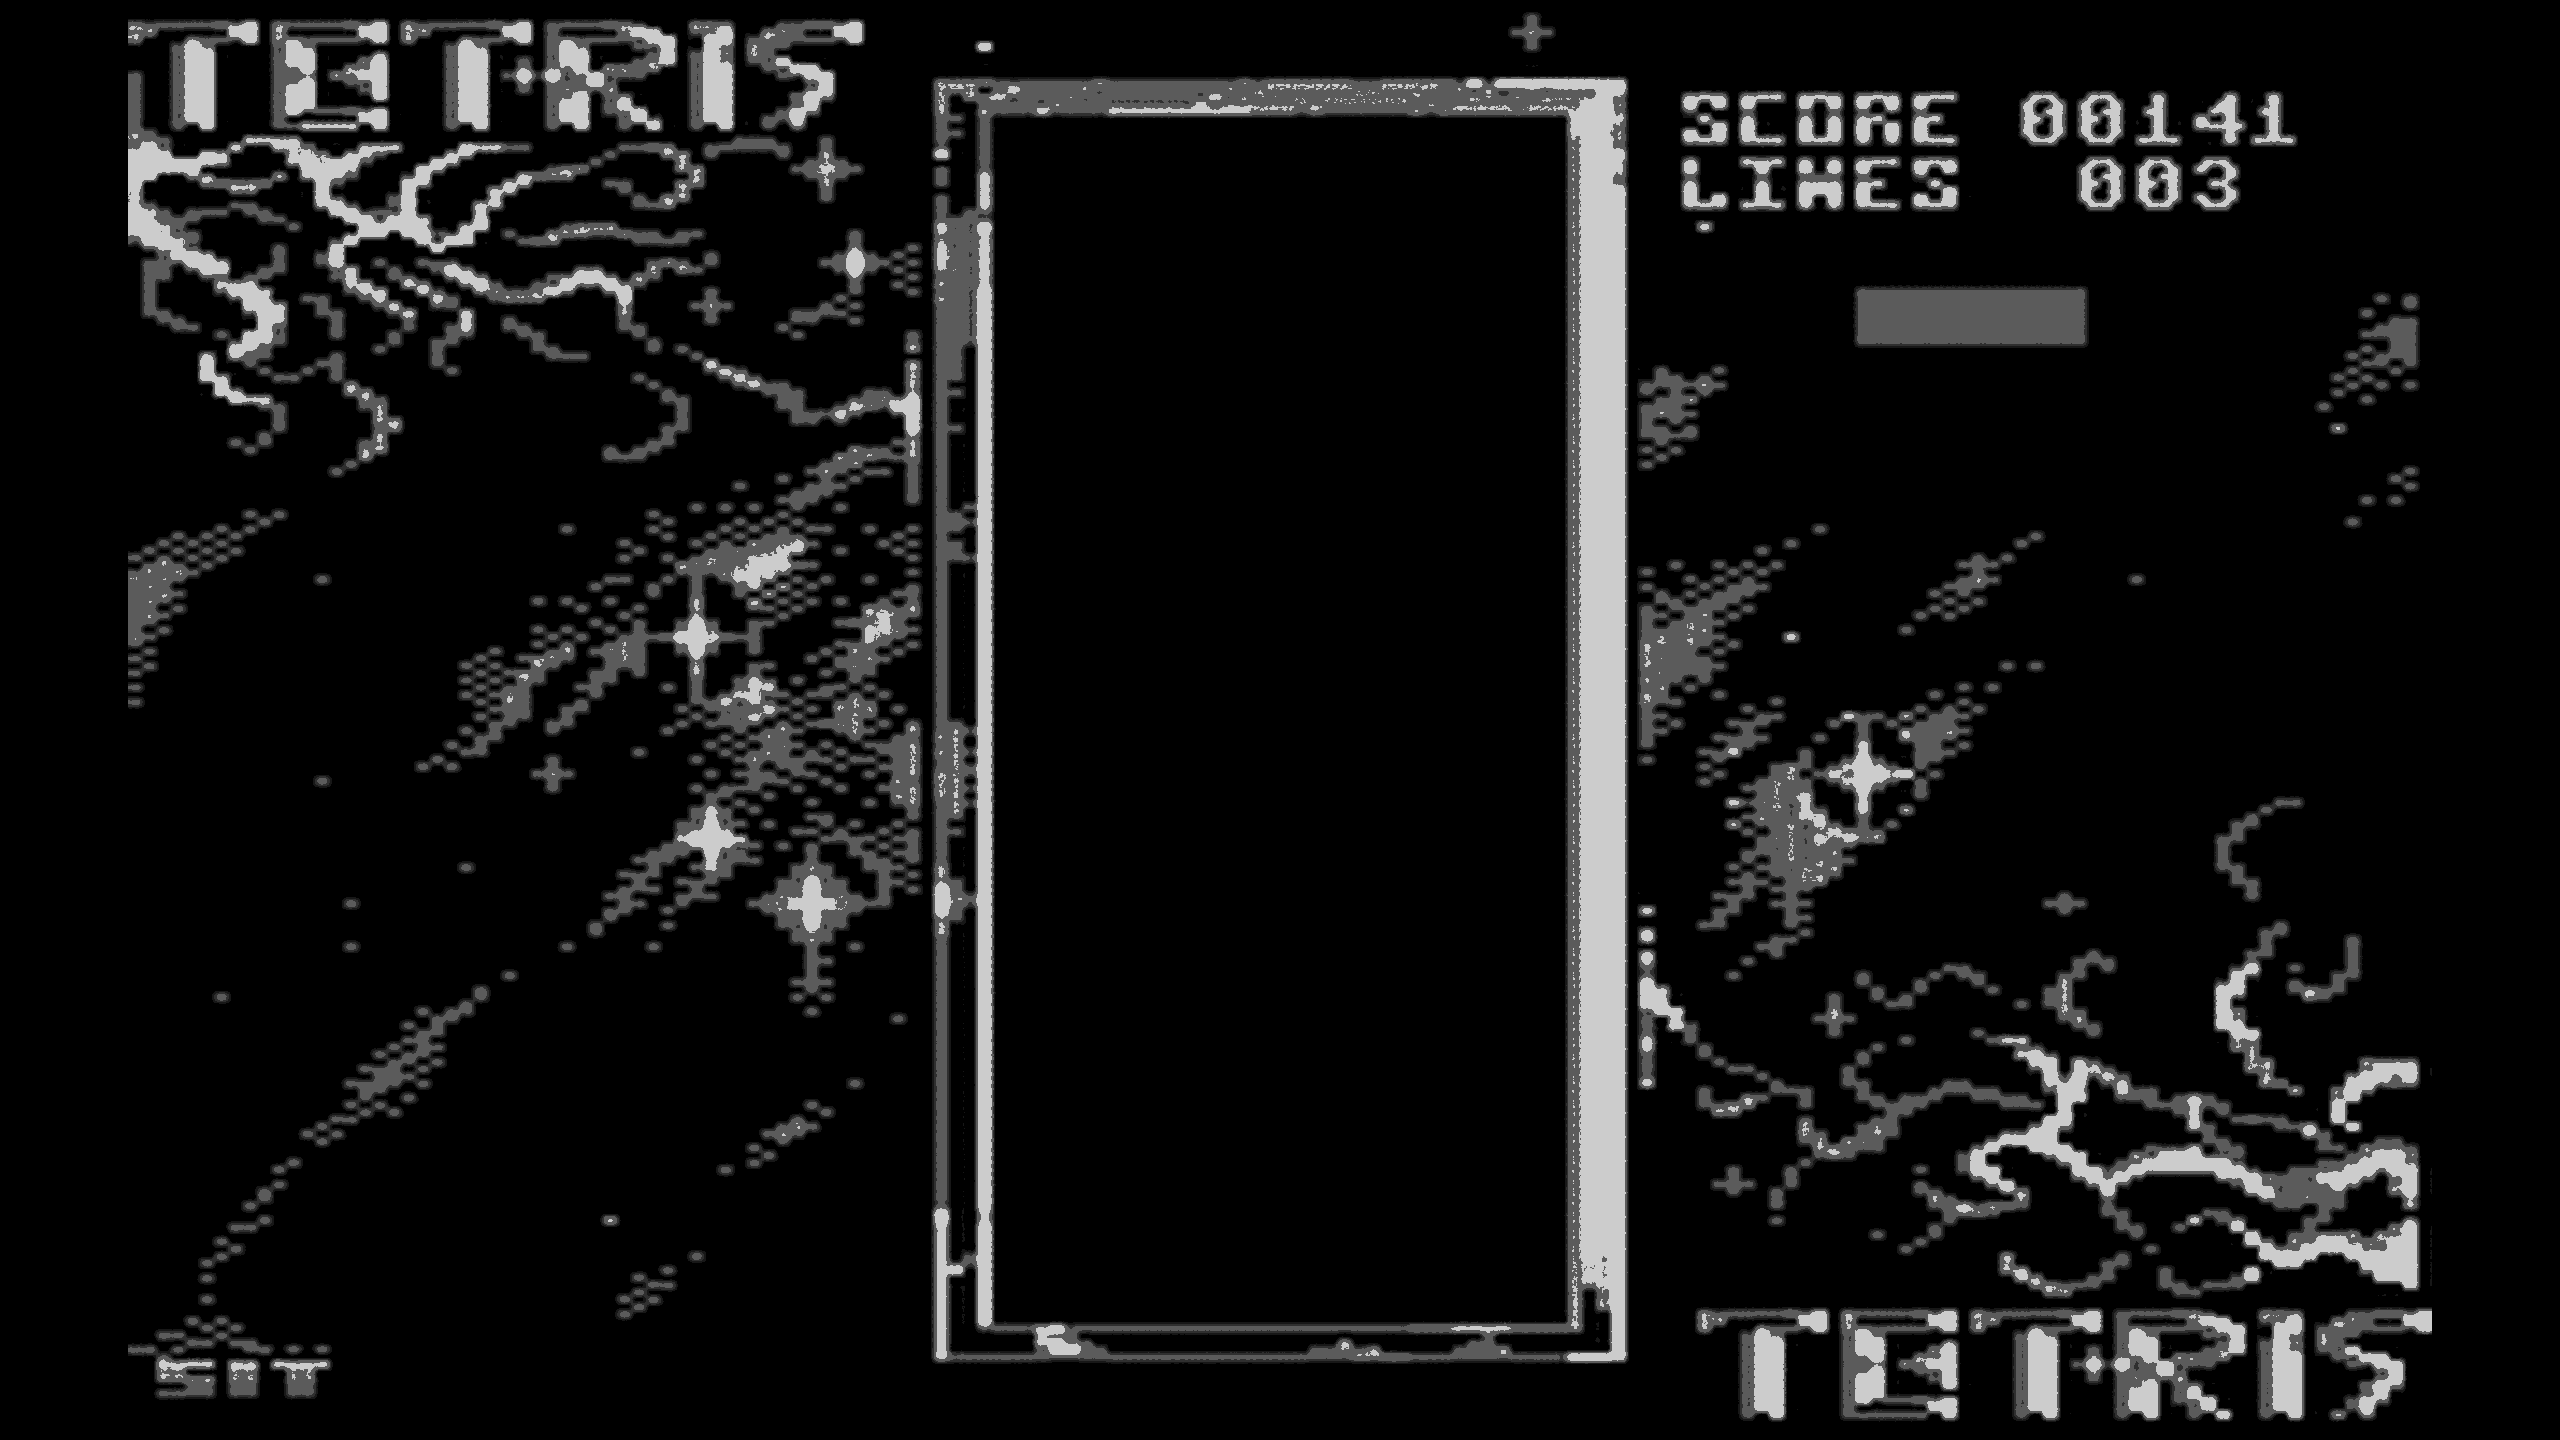
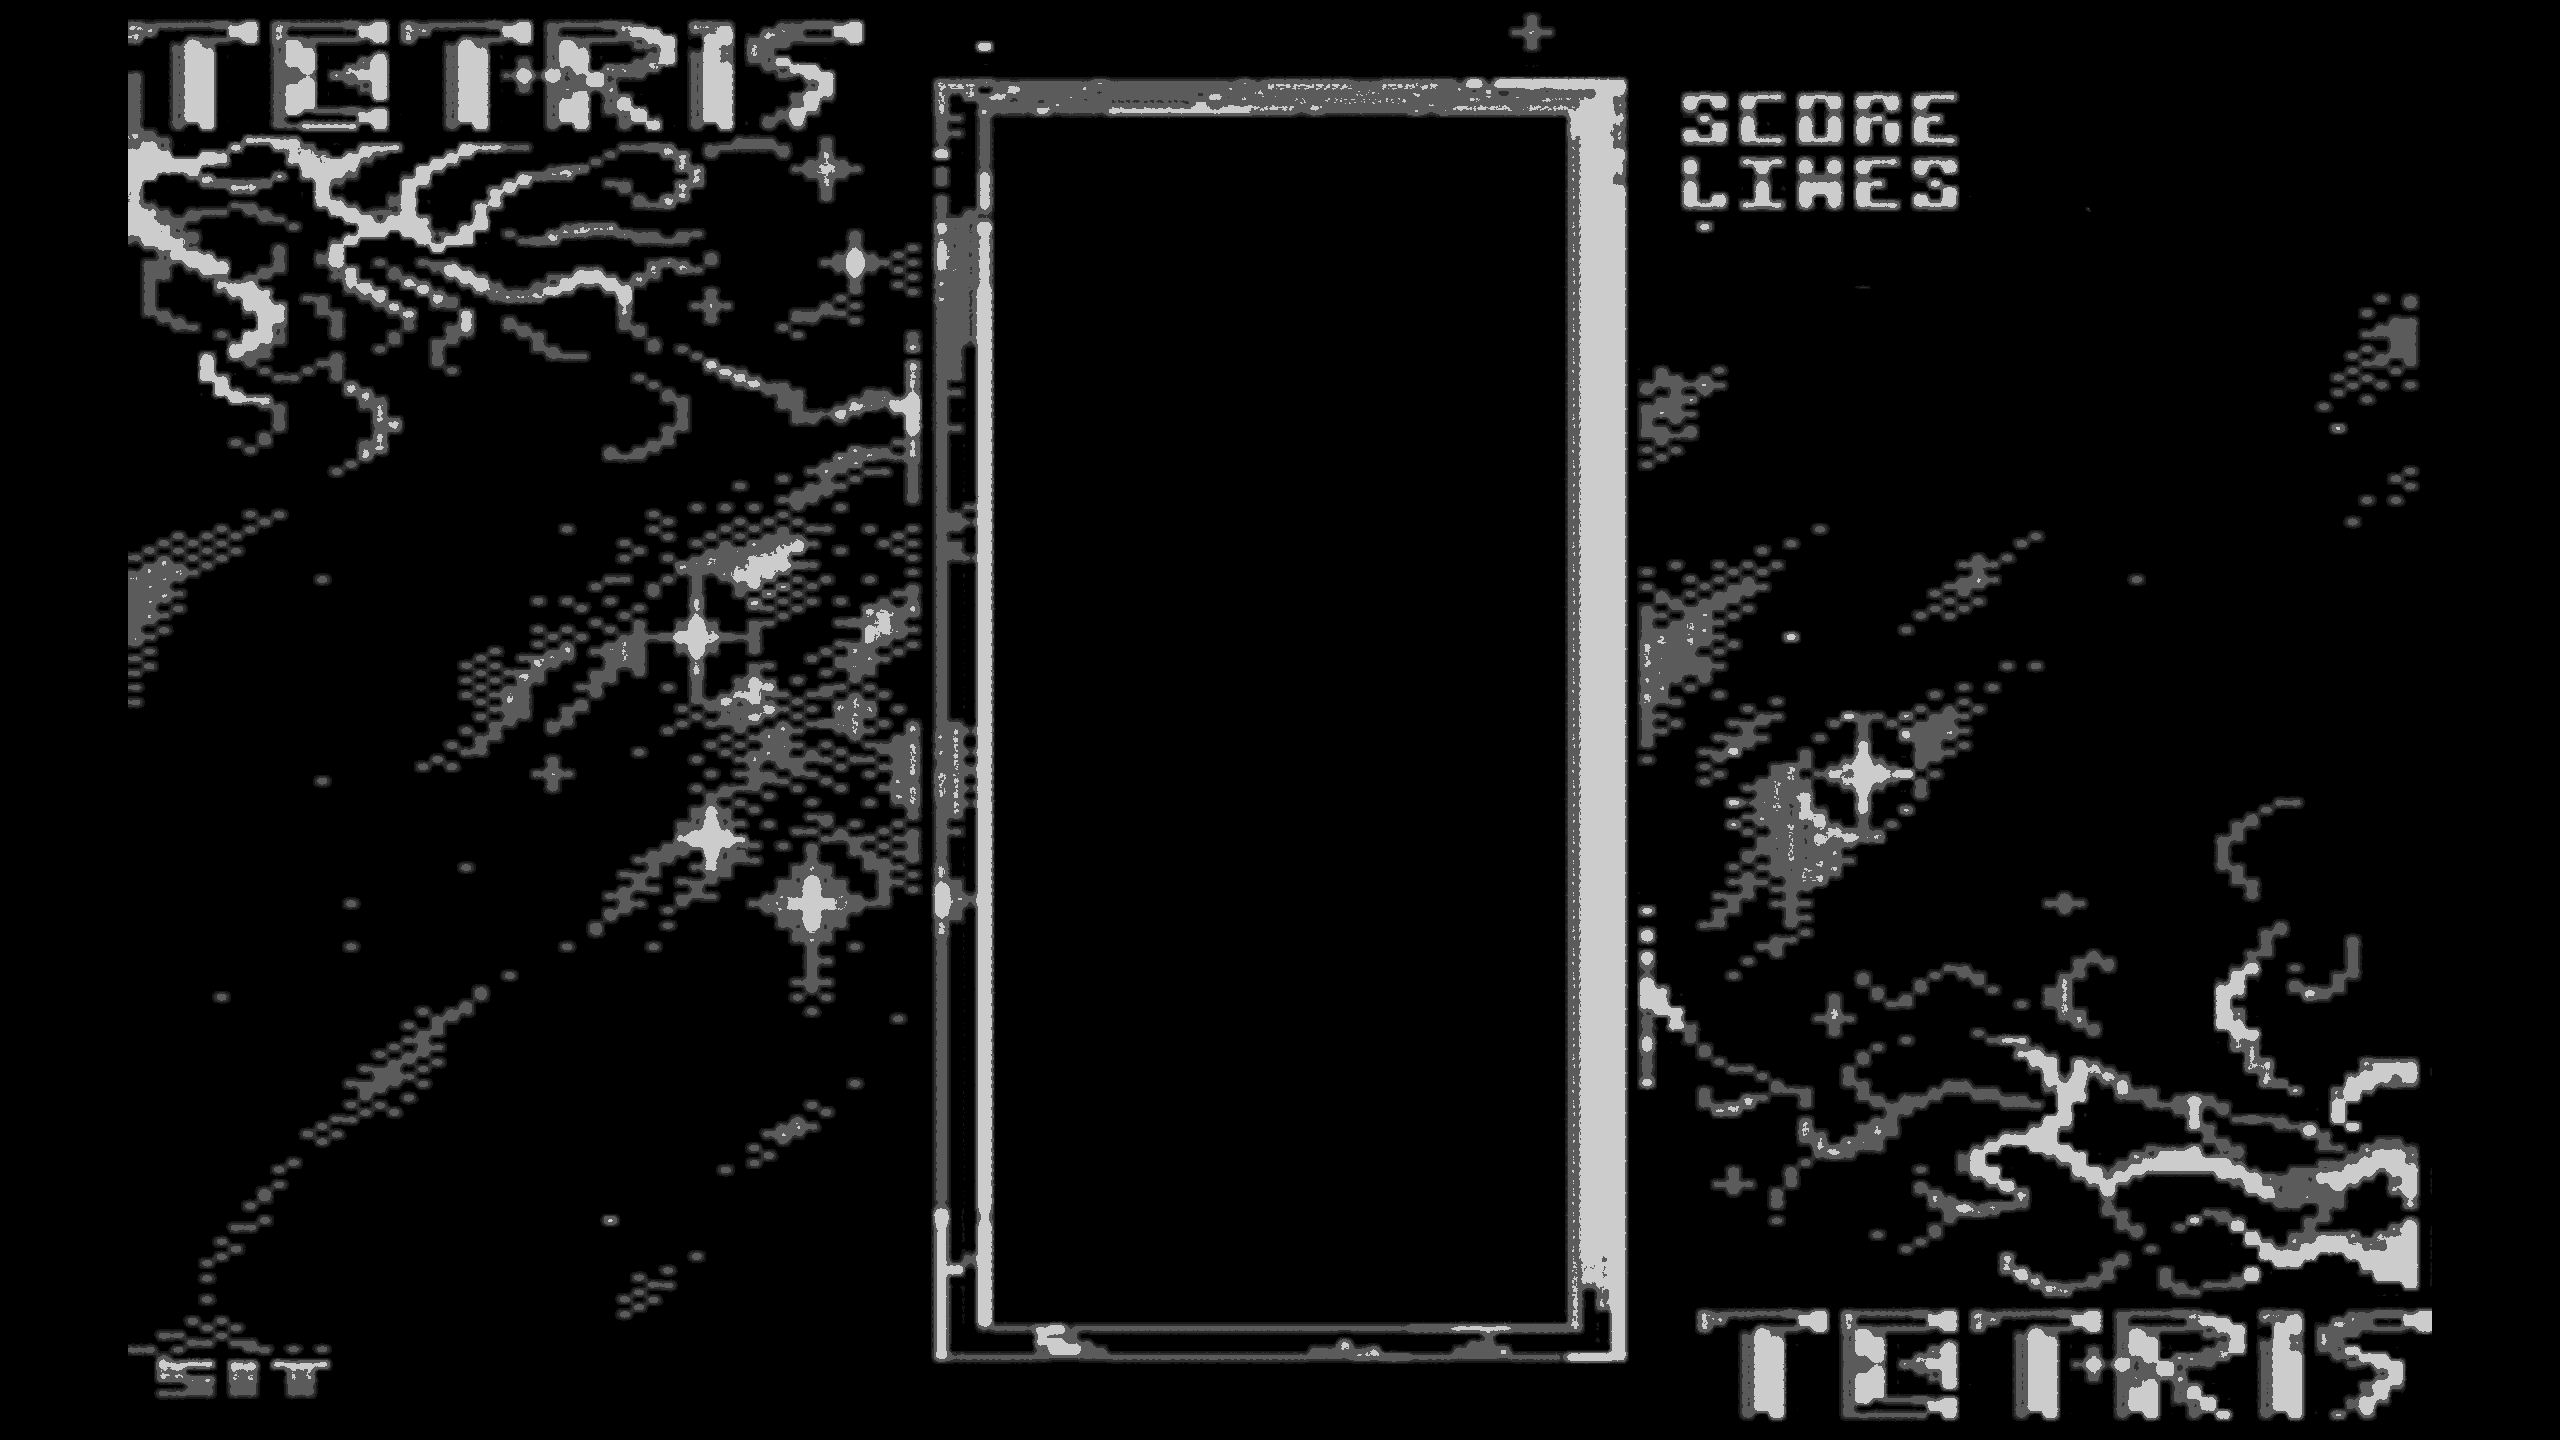
1

Changed region(s): [[0.7812, 0.0625, 0.9062, 0.1562], [0.7188, 0.1875, 0.8125, 0.25]]

diff --git a/demo/tetris64/glyphs.go b/demo/tetris64/glyphs.go
@@ -61,7 +61,7 @@ func glyphTintColor() [3]byte {
 func sampleGlyphTint(img *xpm.Image, l resLayout, scale int) [3]byte {
 	x0, y0 := l.scoreX, l.scoreY
 	x1 := l.scoreX + 8*8*scale
-	y1 := l.levelY + 8*scale
+	y1 := l.linesY + 8*scale
 	if x0 < 0 {
 		x0 = 0
 	}
@@ -144,26 +144,57 @@ func (w *TetrisWin) buildDigitPixmaps() {
 			w.digitPix[d] = 0
 		}
 	}
-	cell := 8 * w.scale
+	cw := w.layout.adv // cell width = digit advance (matches the original spacing)
+	ch := 8 * w.scale  // cell height
+	gh := 7 * w.scale  // glyph height (7 C64 rows)
 	for d := 0; d < 10; d++ {
 		m := glyphMasters[d]
 		if m == nil {
 			w.digitPix[d] = 0
 			continue
 		}
+		// content bounding box from the alpha channel
 		mb := m.Bounds()
-		mw, mh := mb.Dx(), mb.Dy()
-		px := make([]byte, cell*cell*4)
+		minx, miny, maxx, maxy := mb.Max.X, mb.Max.Y, mb.Min.X-1, mb.Min.Y-1
+		for y := mb.Min.Y; y < mb.Max.Y; y++ {
+			for x := mb.Min.X; x < mb.Max.X; x++ {
+				if _, _, _, a := m.At(x, y).RGBA(); a>>8 >= 16 {
+					if x < minx {
+						minx = x
+					}
+					if y < miny {
+						miny = y
+					}
+					if x > maxx {
+						maxx = x
+					}
+					if y > maxy {
+						maxy = y
+					}
+				}
+			}
+		}
+		if maxx < minx {
+			w.digitPix[d] = 0
+			continue
+		}
+		bw, bh := maxx-minx+1, maxy-miny+1
+		gw := bw * gh / bh // preserve aspect (so '4' stays a touch wider)
+		if gw > cw {
+			gw = cw
+		}
+		xoff := (cw - gw) / 2
+
+		px := make([]byte, cw*ch*4)
 		for i := 3; i < len(px); i += 4 {
 			px[i] = 0xFF // opaque black background
 		}
-		for ty := 0; ty < cell; ty++ {
-			for tx := 0; tx < cell; tx++ {
-				// source region of the master covered by this cell pixel
-				sx0 := tx * mw / cell
-				sx1 := (tx + 1) * mw / cell
-				sy0 := ty * mh / cell
-				sy1 := (ty + 1) * mh / cell
+		for ty := 0; ty < gh; ty++ {
+			for tx := 0; tx < gw; tx++ {
+				sx0 := minx + tx*bw/gw
+				sx1 := minx + (tx+1)*bw/gw
+				sy0 := miny + ty*bh/gh
+				sy1 := miny + (ty+1)*bh/gh
 				if sx1 <= sx0 {
 					sx1 = sx0 + 1
 				}
@@ -173,7 +204,7 @@ func (w *TetrisWin) buildDigitPixmaps() {
 				var sa, n int
 				for yy := sy0; yy < sy1; yy++ {
 					for xx := sx0; xx < sx1; xx++ {
-						_, _, _, a := m.At(mb.Min.X+xx, mb.Min.Y+yy).RGBA()
+						_, _, _, a := m.At(xx, yy).RGBA()
 						sa += int(a >> 8)
 						n++
 					}
@@ -182,14 +213,14 @@ func (w *TetrisWin) buildDigitPixmaps() {
 					n = 1
 				}
 				cov := sa / n // averaged alpha = glyph coverage
-				o := (ty*cell + tx) * 4
+				o := ((ty)*cw + xoff + tx) * 4
 				px[o] = tintByte(w.glyphTint[0], cov)
 				px[o+1] = tintByte(w.glyphTint[1], cov)
 				px[o+2] = tintByte(w.glyphTint[2], cov)
 				px[o+3] = 0xFF
 			}
 		}
-		img := &xpm.Image{Width: cell, Height: cell, Data: px}
+		img := &xpm.Image{Width: cw, Height: ch, Data: px}
 		pm, err := img.Upload(w.conn, w.conn.DefaultRoot())
 		if err != nil {
 			w.digitPix[d] = 0
@@ -202,17 +233,18 @@ func (w *TetrisWin) buildDigitPixmaps() {
 // drawNumber blits the digit pixmaps for text onto target, advancing one
 // fixed-width cell (8*scale) per character.
 func (w *TetrisWin) drawNumber(target base.DRAWABLE, x, y base.INT16, text string) {
-	cell := 8 * w.scale
-	for i, ch := range text {
-		if ch < '0' || ch > '9' {
+	adv := w.layout.adv
+	ch := 8 * w.scale
+	for i, c := range text {
+		if c < '0' || c > '9' {
 			continue
 		}
-		pm := w.digitPix[ch-'0']
+		pm := w.digitPix[c-'0']
 		if pm == 0 {
 			continue
 		}
 		rpc.CopyArea(w.conn, pm, target, w.gcText,
-			0, 0, x+base.INT16(i*cell), y,
-			base.CARD16(cell), base.CARD16(cell))
+			0, 0, x+base.INT16(i*adv), y,
+			base.CARD16(adv), base.CARD16(ch))
 	}
 }

diff --git a/demo/tetris64/main.go b/demo/tetris64/main.go
@@ -70,15 +70,17 @@ type resLayout struct {
 	nx, ny               int
 	scoreX, scoreY       int
 	linesX, linesY       int
-	levelX, levelY       int
+	adv                  int // digit advance / cell width (narrower than 8*scale)
 	gameOverX, gameOverY int
 }
 
+// Score/lines/next positions measured from the original FHD screenshots
+// (assets/screenshots) and expressed per resolution (≈ C64-space coord * scale).
 var layouts = []resLayout{
-	{cell: 8, bx: 120, by: 16, nx: 208, ny: 112, scoreX: 245, scoreY: 13, linesX: 245, linesY: 22, levelX: 248, levelY: 40, gameOverX: 120, gameOverY: 88},
-	{cell: 42, bx: 755, by: 99, nx: 1248, ny: 605, scoreX: 1470, scoreY: 70, linesX: 1470, linesY: 119, levelX: 1488, levelY: 216, gameOverX: 720, gameOverY: 475},
-	{cell: 55, bx: 1010, by: 143, nx: 1664, ny: 806, scoreX: 1960, scoreY: 93, linesX: 1960, linesY: 158, levelX: 1984, levelY: 288, gameOverX: 960, gameOverY: 633},
-	{cell: 83, bx: 1513, by: 212, nx: 2496, ny: 1209, scoreX: 2940, scoreY: 140, linesX: 2940, linesY: 237, levelX: 2976, levelY: 432, gameOverX: 1440, gameOverY: 950},
+	{cell: 8, bx: 120, by: 16, nx: 233, ny: 29, scoreX: 266, scoreY: 13, linesX: 272, linesY: 22, adv: 8, gameOverX: 120, gameOverY: 88},
+	{cell: 42, bx: 755, by: 99, nx: 1398, ny: 174, scoreX: 1475, scoreY: 70, linesX: 1545, linesY: 119, adv: 48, gameOverX: 720, gameOverY: 475},
+	{cell: 55, bx: 1010, by: 143, nx: 1864, ny: 232, scoreX: 2023, scoreY: 94, linesX: 2080, linesY: 159, adv: 64, gameOverX: 960, gameOverY: 633},
+	{cell: 83, bx: 1513, by: 212, nx: 2796, ny: 348, scoreX: 3034, scoreY: 141, linesX: 3125, linesY: 238, adv: 96, gameOverX: 1440, gameOverY: 950},
 }
 
 type TetrisWin struct {
@@ -421,8 +423,8 @@ func (w *TetrisWin) drawGame() {
 
 	// clear score/lines text areas
 	w.fillRects(w.bgWin, w.gcBlack, []base.Rectangle{
-		{X: base.INT16(l.scoreX), Y: base.INT16(l.scoreY), Width: base.CARD16(48 * fs), Height: base.CARD16(8 * fs)},
-		{X: base.INT16(l.linesX), Y: base.INT16(l.linesY), Width: base.CARD16(24 * fs), Height: base.CARD16(8 * fs)},
+		{X: base.INT16(l.scoreX), Y: base.INT16(l.scoreY), Width: base.CARD16(5 * l.adv), Height: base.CARD16(8 * fs)},
+		{X: base.INT16(l.linesX), Y: base.INT16(l.linesY), Width: base.CARD16(3 * l.adv), Height: base.CARD16(8 * fs)},
 	})
 
 	// draw board cells (relative to boardWin)
@@ -528,7 +530,7 @@ func (w *TetrisWin) drawGame() {
 	bgDraw := tk_core.Drawable{Conn: w.tkConn, XID: w.bgWin}
 
 	// score/lines/level use the greyscale digit pixmaps (scaled from masters)
-	w.drawNumber(w.bgWin, base.INT16(l.scoreX), base.INT16(l.scoreY), fmt.Sprintf("%06d", gs.Score))
+	w.drawNumber(w.bgWin, base.INT16(l.scoreX), base.INT16(l.scoreY), fmt.Sprintf("%05d", gs.Score))
 	w.drawNumber(w.bgWin, base.INT16(l.linesX), base.INT16(l.linesY), fmt.Sprintf("%03d", gs.Lines))
 
 	if gs.GameOver {

diff --git a/demo/tetris64/TODO.md b/demo/tetris64/TODO.md
@@ -1,13 +1,7 @@
-[x] stone landing preview (in the game area) just as grid instead of full color
-[x] pause via space key
-[x] line and score counter yet missing       -- rendered now (drawNumber)
-[x] switch between mono and color theme (eg. C key)
 [ ] FHD mono theme still looking blurred      -- could NOT reproduce; renders sharp from disk assets. (the embedded-320 fallback tiles/looks bad only when the per-res asset is missing.) please recheck
 [ ] UHD4K mono theme still looking blurred     -- likewise, please recheck
 [ ] WQHD mono theme still looking blurred      -- likewise, please recheck
-[x] theme: move .sid file under music subdir   -- assets/music/tetris.sid
-[x] when resource embedding is enabled: also embed the .sid file and write it out to tempfile for sidplayfp  -- already done (sidData embed -> startMusic writes tmpfile)
 [ ] drop the old 300px theme - not needed anymore   -- CLARIFY: is "300px" the 320x200 resolution? (it's currently the only embedded fallback + small-screen default)
-[ ] next stone preview is in the wrong place - not where it was in the original game   -- needs the original positions (nx/ny per resolution)
-[~] highscore and line counter aren't positioned correctly - and there's an useless extra line   -- removed the extra "level" line; exact score/lines positions still off (digits overlap the baked-in labels), needs per-resolution coords
-[x] highscore and line counter don't actually count yet   -- they DO count (game.CheckLines updates Score/Lines); please confirm
+[x] next stone preview is in the wrong place - not where it was in the original game   -- repositioned (nx/ny) from the original screenshots, per resolution
+[x] highscore and line counter aren't positioned correctly   -- measured per-frame score/lines positions; 5-digit score, 48px-style advance, clear-rects fixed (no more bleed/overlap). verified 320/FHD/WQHD
+[ ] stones should look a bit more smoothed (like on the original game screenshots)
